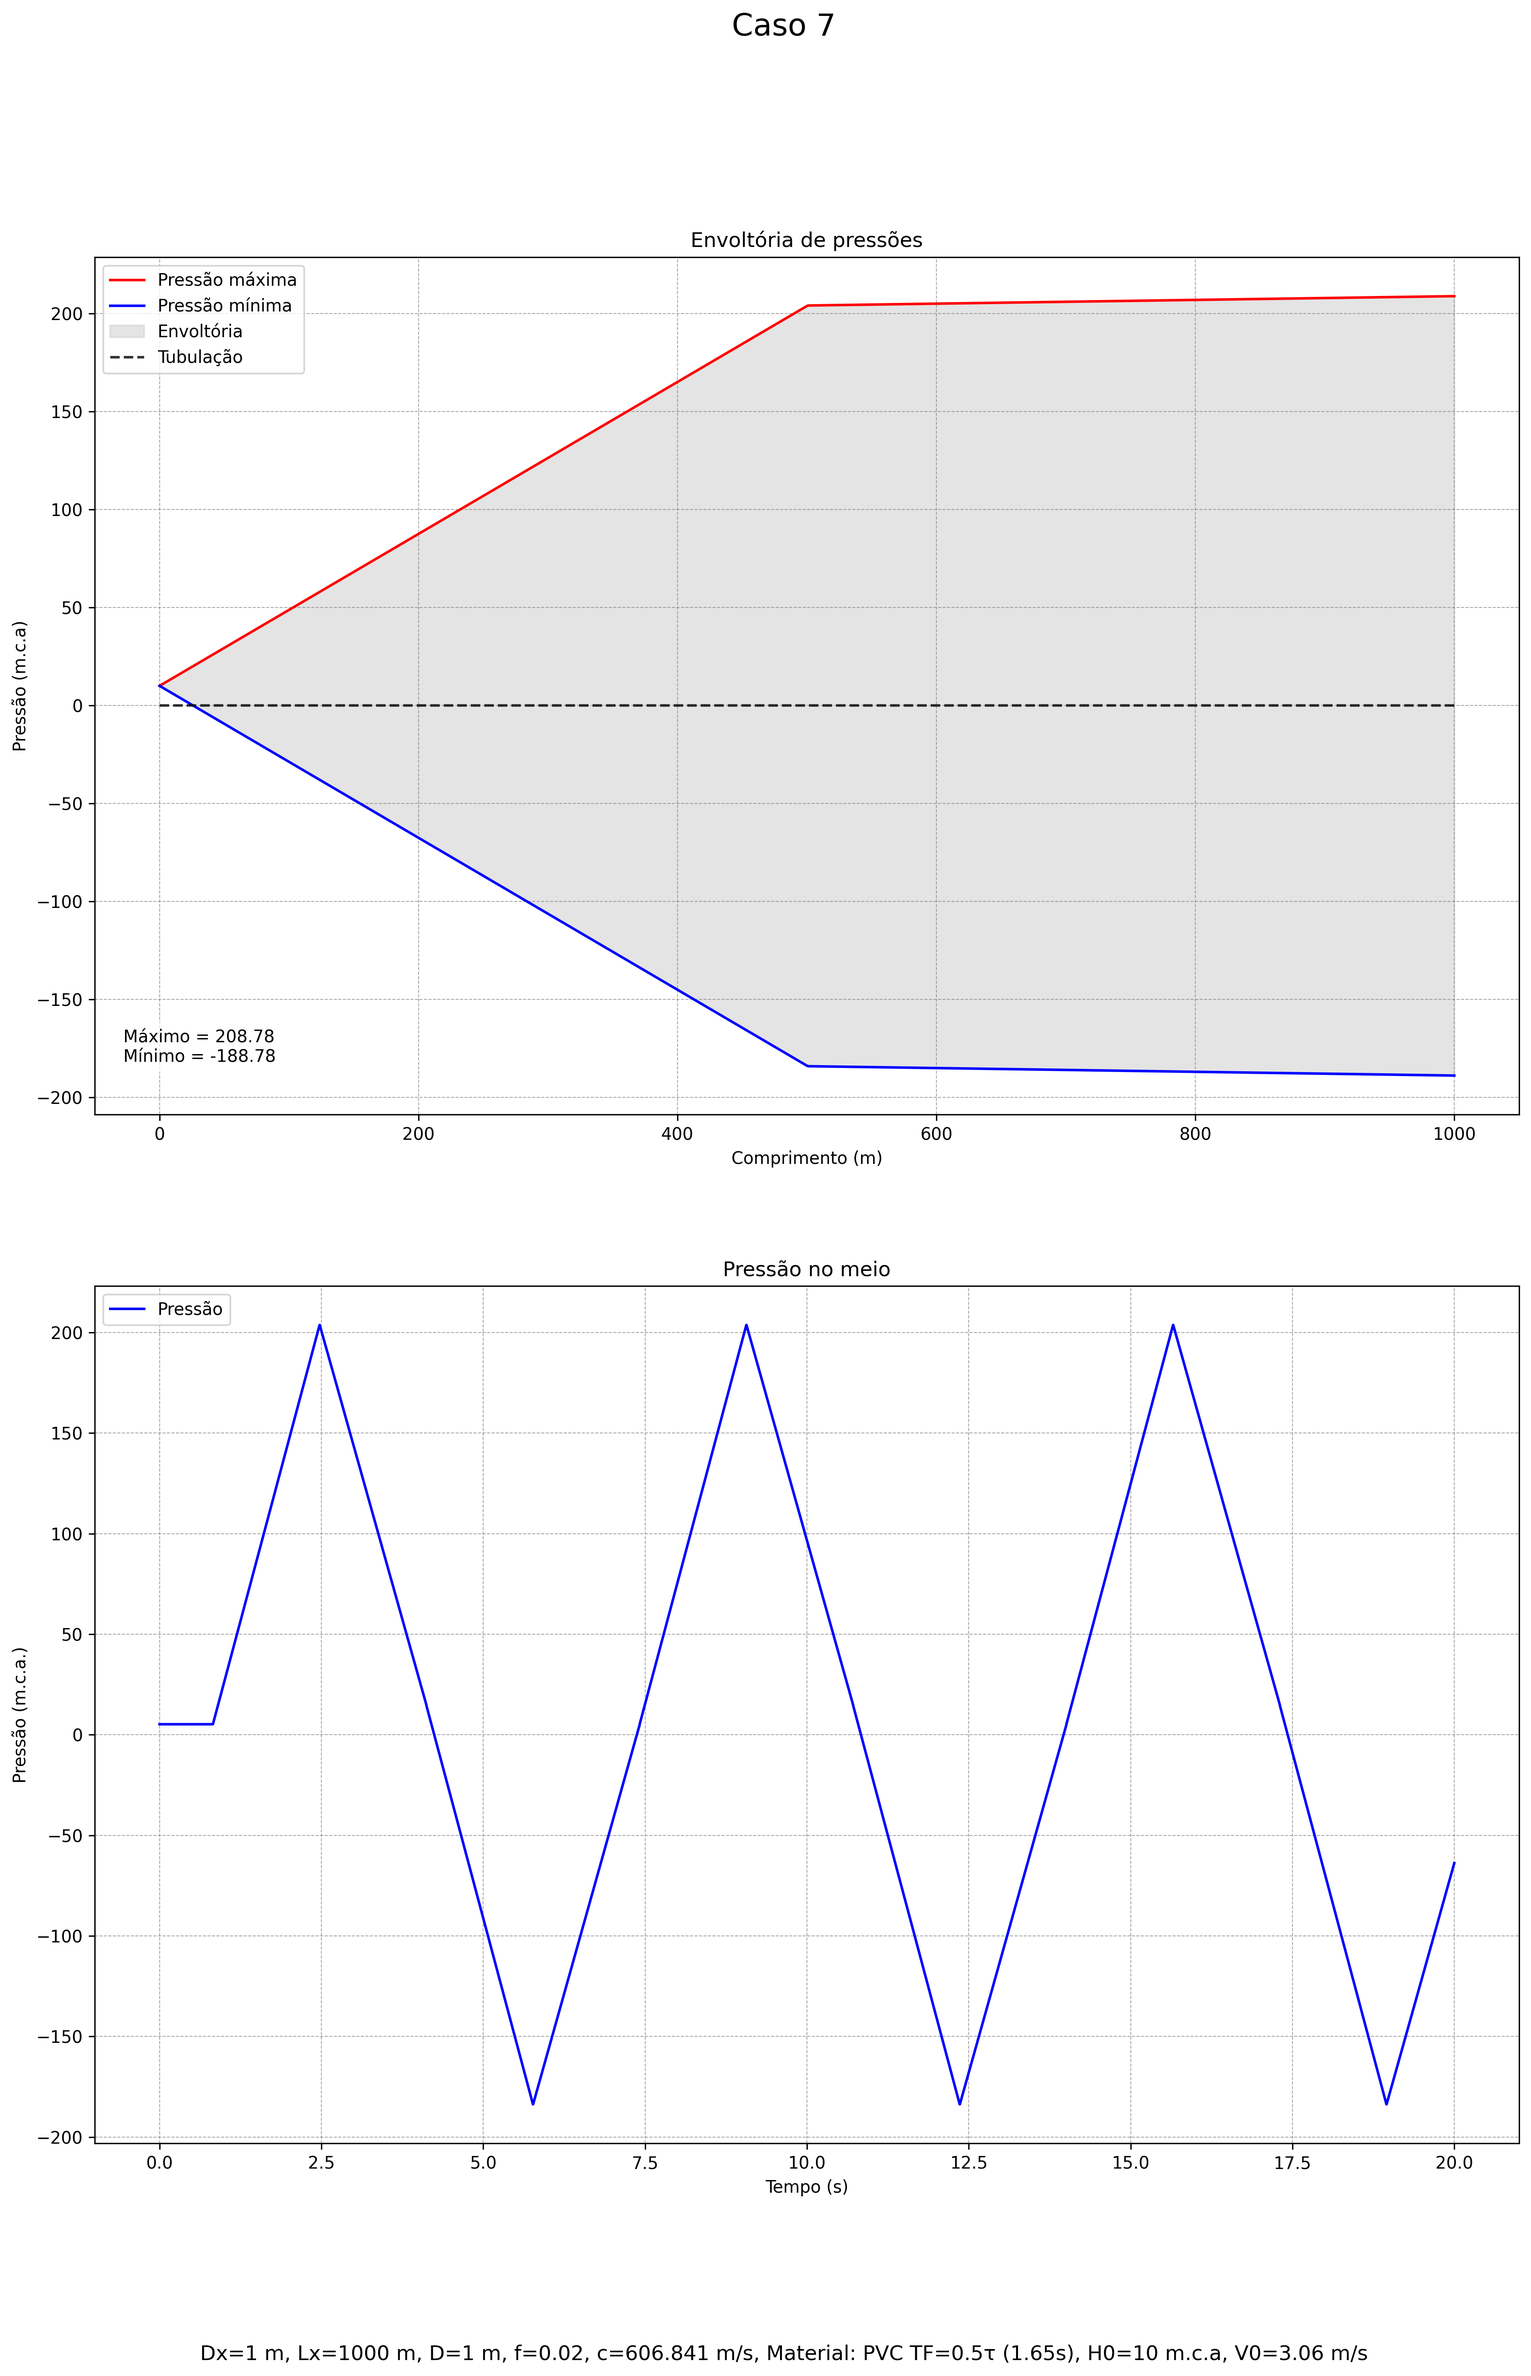
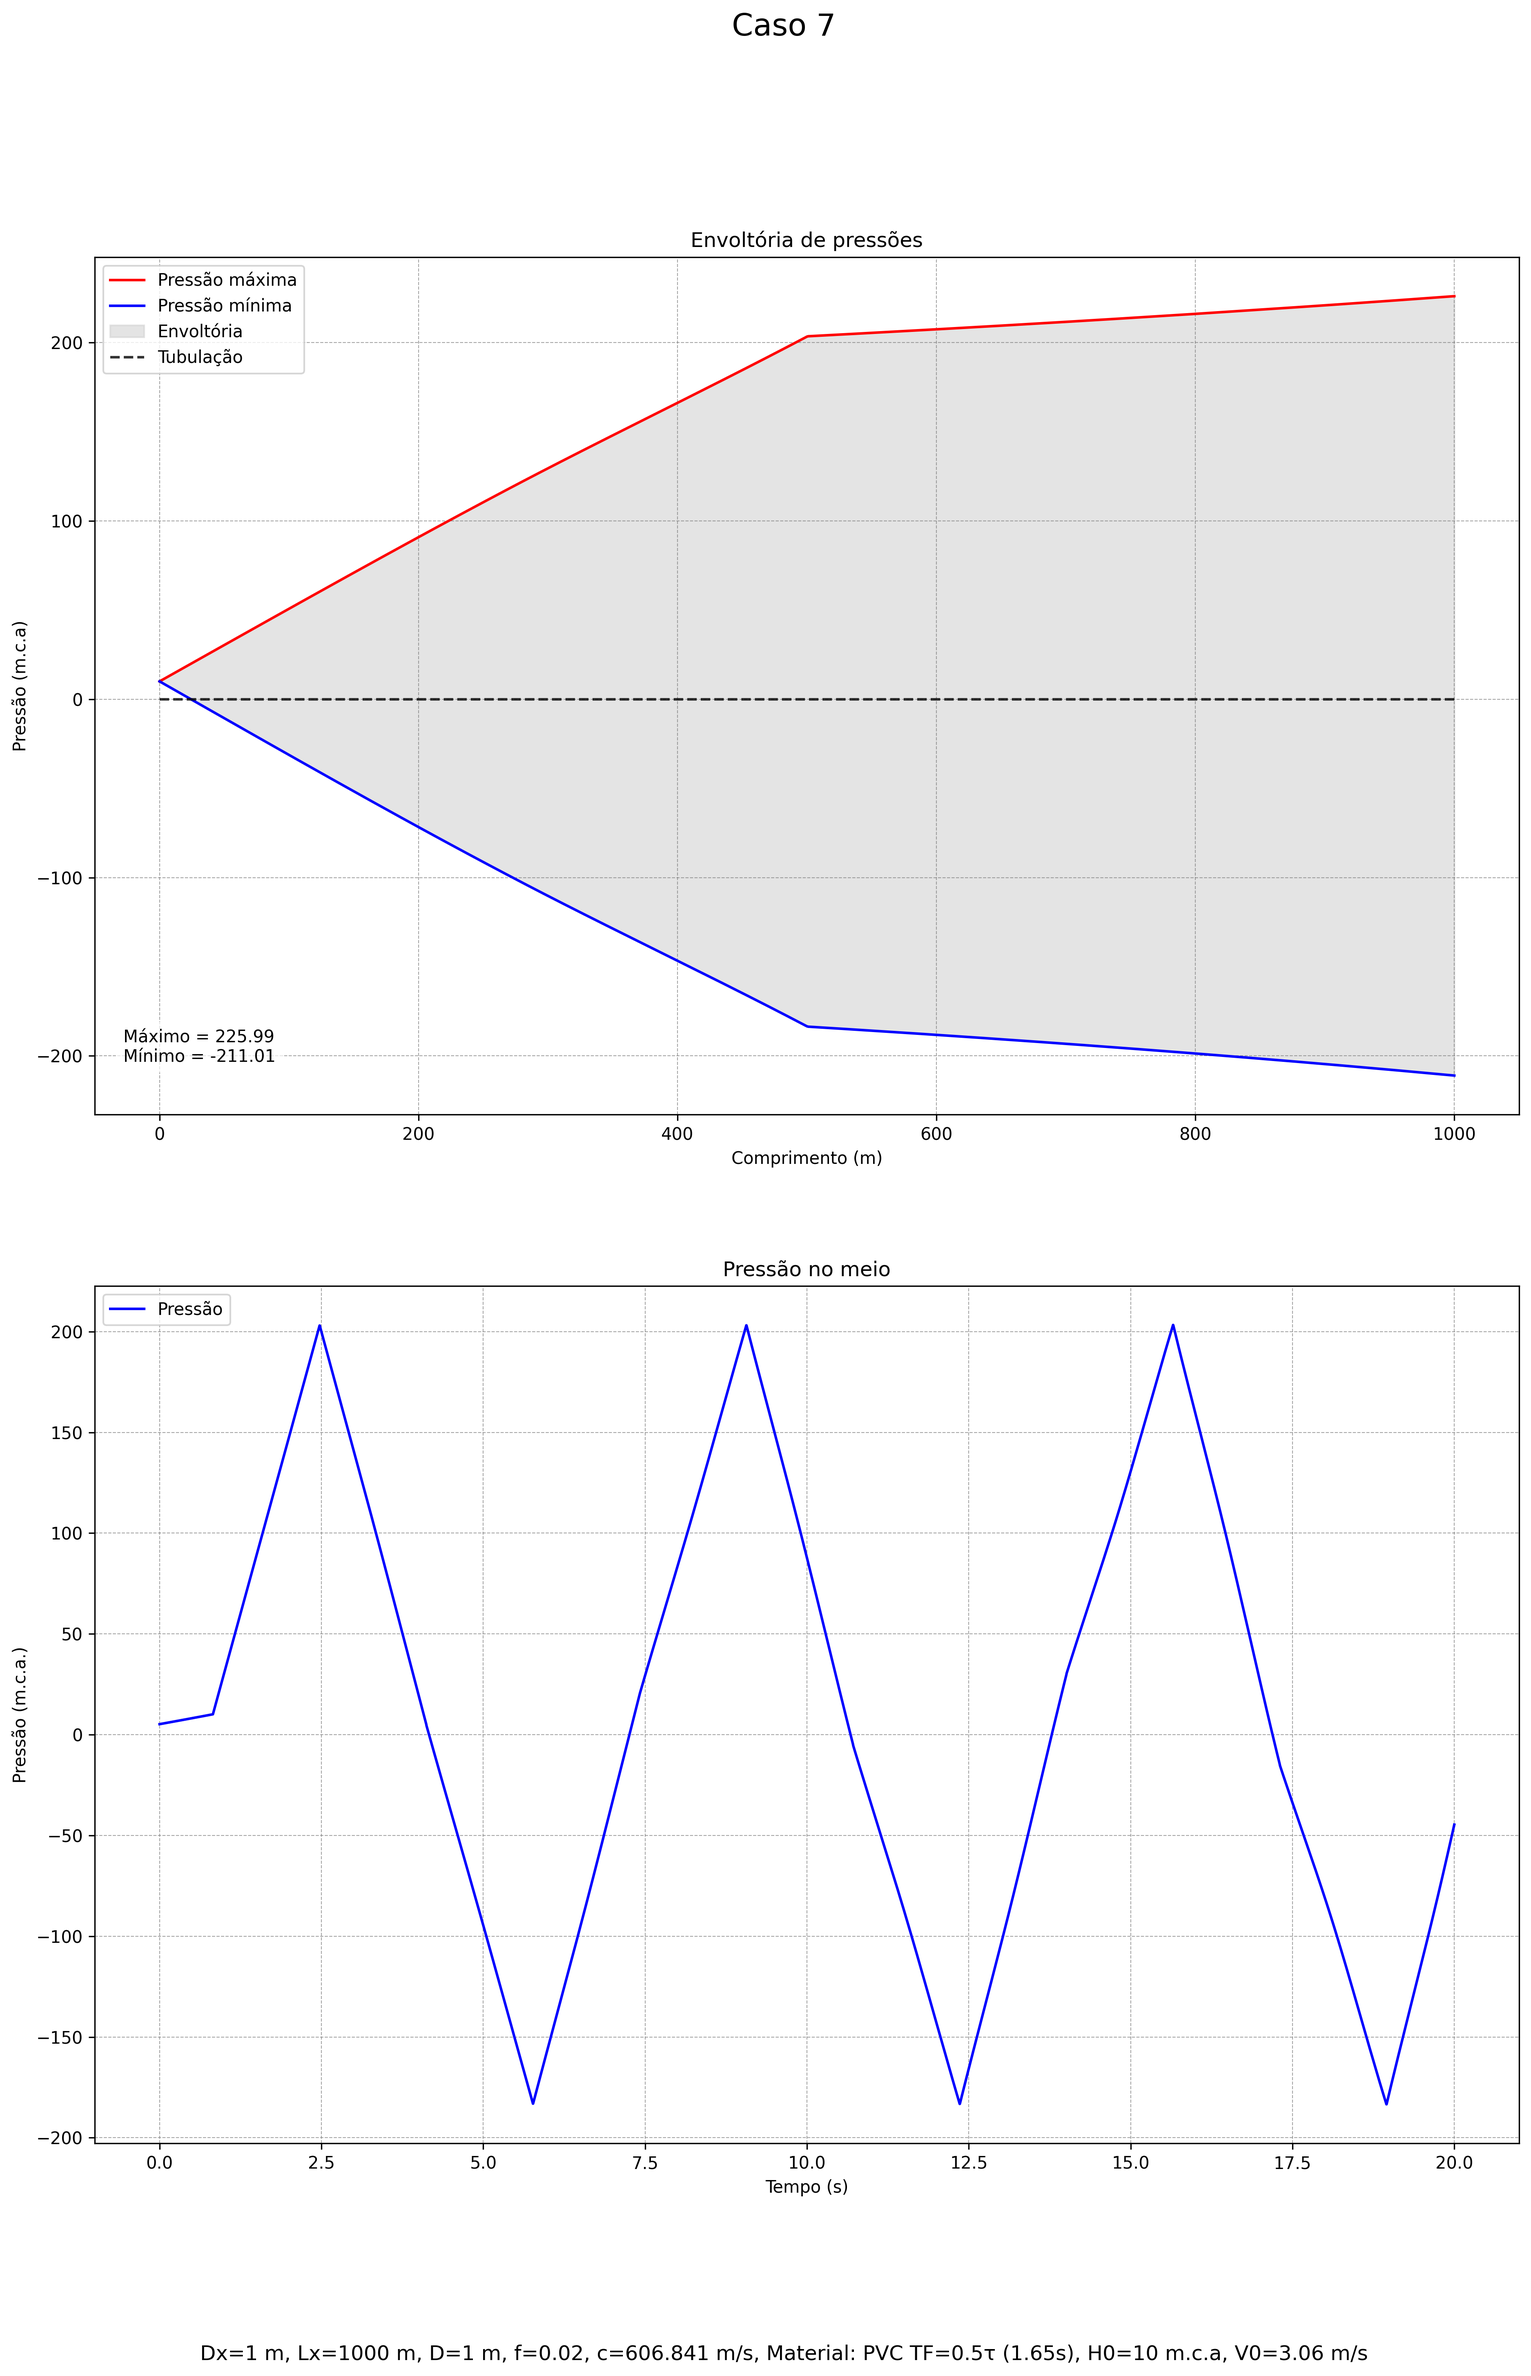
S_05

diff --git a/transiente-hidraulico-moc.py b/transiente-hidraulico-moc.py
@@ -52,8 +52,8 @@ for caso_simulado in tqdm(range(len(casos)), desc="Simulando casos"):
 
 
     # --- COEFICIENTES DO MÉTODO DAS CARACTERÍSTICAS ---
-    Ca = round((g * A0) / c,4)
-    k = round(f * Dt / (2 * D * A0),4)
+    Ca = round((g * A0) / c,6)
+    k = round(f * Dt / (2 * D * A0),6)
 
 
     # --- DISCRETIZAÇÃO ---
